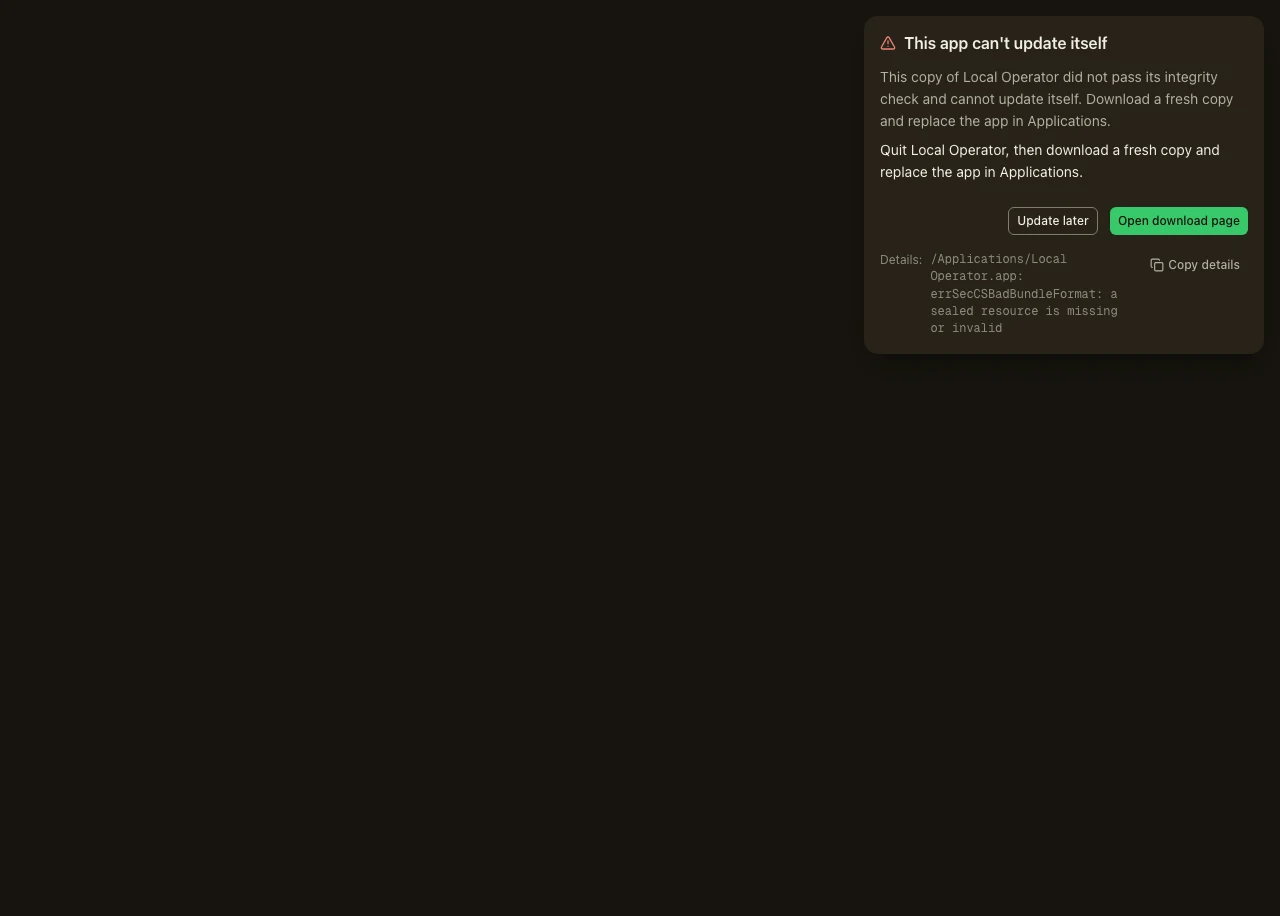
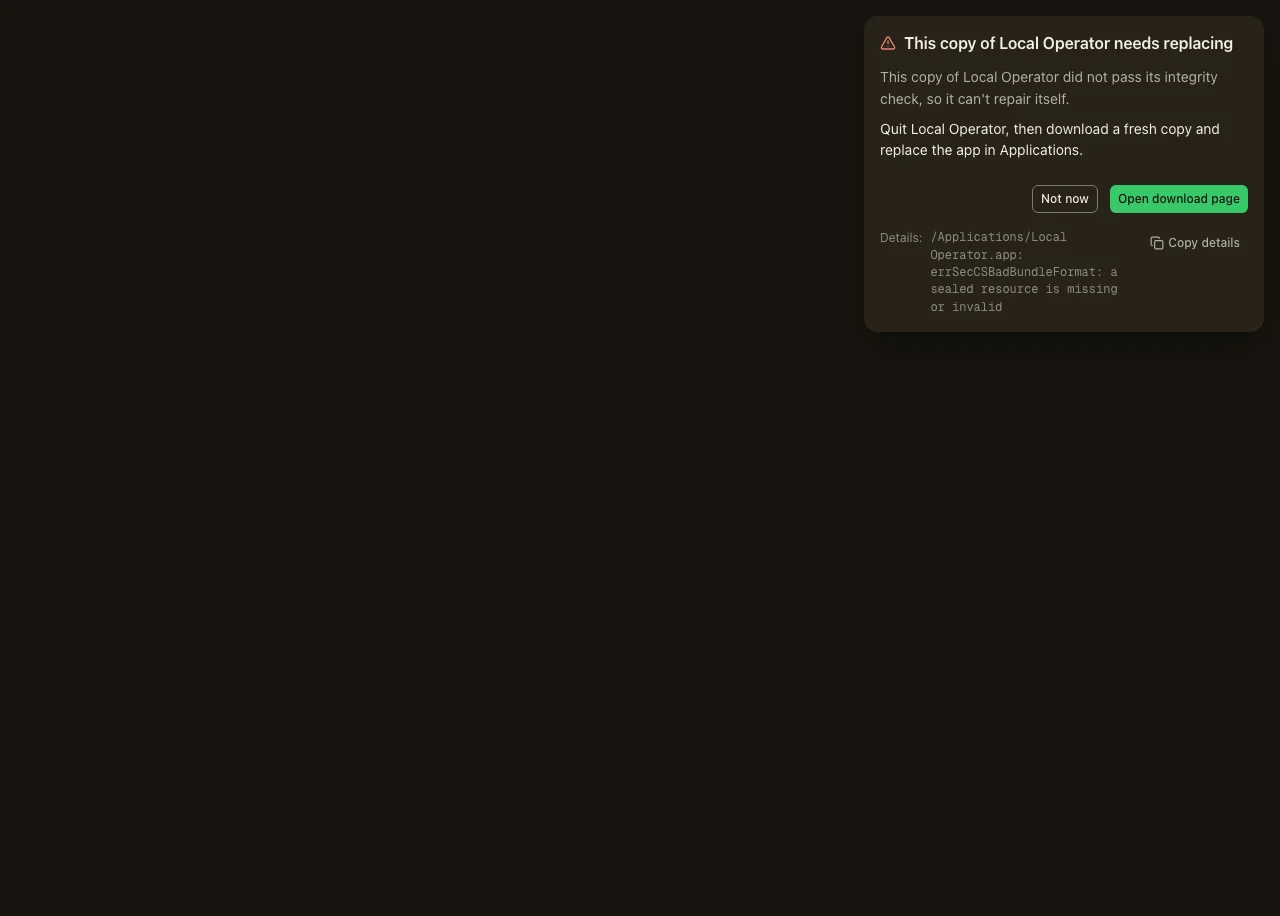
docs(evidence): the round-1 findings, their raw output, and the re-captured frames
`docs/evidence/managed-python-runtime/round1-remediation.txt` carries the command
output behind every finding that pass answered: the four provisioning-recovery
fixtures, the seed that carries bytecode, the pre-split report driven with a real
pre-split venv, the installer run to its refusal, the setup dialog's copy, the
Details line's contrast at token level, the release gate on this head's own build
(two architectures, six app instances), and the container gate refusing two
mutated copies of the real arm64 archive by name.

Two corrections to what the earlier pass recorded, because they are now false:

- The x64 rows pass. `pnpm setup-python` supplied `resources/python`, so the
  "no x64 seed on this checkout" BLOCKED bullet described that checkout rather
  than the artifacts this pass built.
- The start-up panel was re-captured on this head in both brand themes; 18 of the
  20 frames came back byte-identical and the two that differ are the ones D1-D3
  changed. `docs/evidence/manifest.json` records the run, its scope and that
  arithmetic.

`bundledBytecodeCheck`'s success line names the trees it walked from the shared
layout definition rather than the two legacy names it used to print - the walk
covers four directories now, so the old label described a fifth of it.

Changed region(s): [[0.6875, 0.0917, 1.0, 0.3668], [0.75, 0.0306, 0.9688, 0.0611]]

diff --git a/docs/evidence/managed-python-runtime/README.md b/docs/evidence/managed-python-runtime/README.md
@@ -20,6 +20,16 @@ pnpm test:desktop                             -> unit-tests.txt (the suite, 0 fa
 node scripts/verify-macos-artifacts.mjs       -> release-gate.txt
 node scripts/run-desktop-tests.mjs scripts/managed-python.test.mjs
                                               -> unit-tests.txt
+
+# Round 1 of the review, QA and design rounds, answered in one pass:
+node scripts/run-desktop-tests.mjs scripts/managed-python.test.mjs
+node scripts/run-desktop-tests.mjs scripts/python-bytecode-cache.test.mjs
+node scripts/run-desktop-tests.mjs scripts/update-robustness.test.mjs
+pnpm setup-python && pnpm build && electron-builder --mac --publish never
+node scripts/verify-macos-artifacts.mjs --dist dist
+node scripts/capture-evidence.mjs http://localhost:6017 \
+  --only=common-updatenotification --themes=localOperatorDark,localOperatorLight
+                                              -> round1-remediation.txt
 ```
 
 `--arm64` did not narrow the build as intended: `mac.target` lists both
@@ -112,16 +122,38 @@ could fail; these two are that question, and both are refused by name.
   `scripts/verify-signed-update.mjs` reports the whole exercise BLOCKED with exit
   2 rather than a surrogate PASS - it consumes artifacts the `ci(mac)` candidate
   workflow signs, and it says so.
-- **The x64 artifacts.** This checkout has no `resources/python` (the x64
-  interpreter is not downloaded here), so the x64 app carries no seed and the gate
-  refuses it:
+- **The x64 artifacts.** At the time the earlier pass ran, this checkout had no
+  `resources/python` (the x64 interpreter was not downloaded), so the x64 app
+  carried no seed and the gate refused it:
 
   ```
   FAIL app-one-bundled-python: ... the x86_64 app ships Contents/Resources/none, but it resolves Contents/Resources/python-runtime-seed/x64
   ```
 
   That is the check working: a bundle whose interpreter did not reach it is not a
-  bundle to ship. `pnpm setup-python` on the release runner supplies both.
+  bundle to ship. `pnpm setup-python` supplies both on a checkout that has run
+  it - and the remediation pass did run it, so the x64 rows above pass on the
+  artifacts that pass built.
+
+## Round 1 of the review, QA and design rounds
+
+`round1-remediation.txt` is the raw output behind every finding worked in that
+pass: the four provisioning-recovery fixtures, the seed-that-carries-bytecode
+case, the pre-split environment report driven with a real pre-split venv, the
+installer script run to its refusal, the setup dialog's copy, the Details line's
+contrast measured at token level, the release gate on this head's own build for
+BOTH architectures, and the container gate refusing two mutated copies of the
+real arm64 archive by name.
+
+Two things it records that the earlier pass could not:
+
+- **The x64 rows pass now.** `pnpm setup-python` supplied `resources/python`, so
+  all six app instances (two unpacked, four containers) pass the three seeded
+  rows for both architectures. The BLOCKED bullet below about the x64 artifacts
+  described the earlier pass's checkout, not this one.
+- **Only two frames moved.** The start-up panel was re-captured on this head in
+  both brand themes and 18 of the 20 frames came back byte-identical; the two
+  that differ are the ones D1-D3 changed. The manifest records which.
 
 ## Handoff state
 
